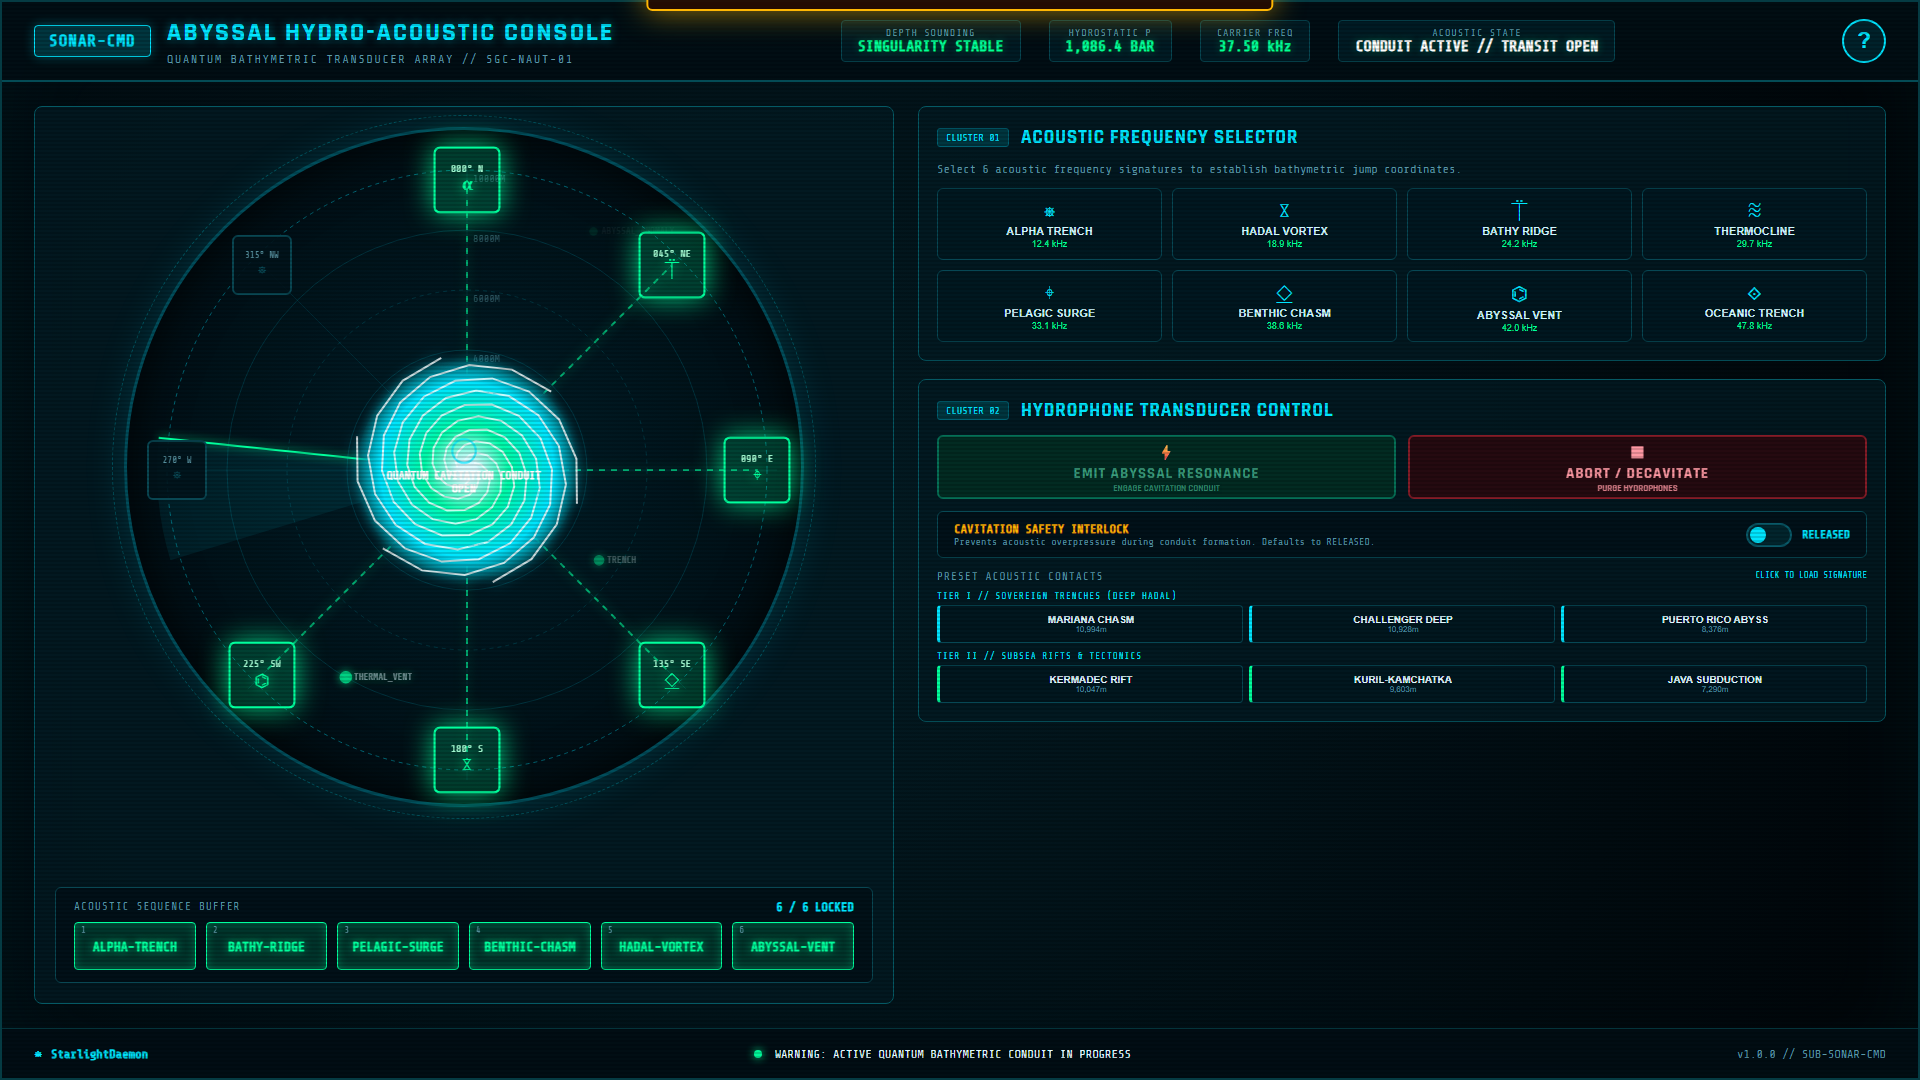
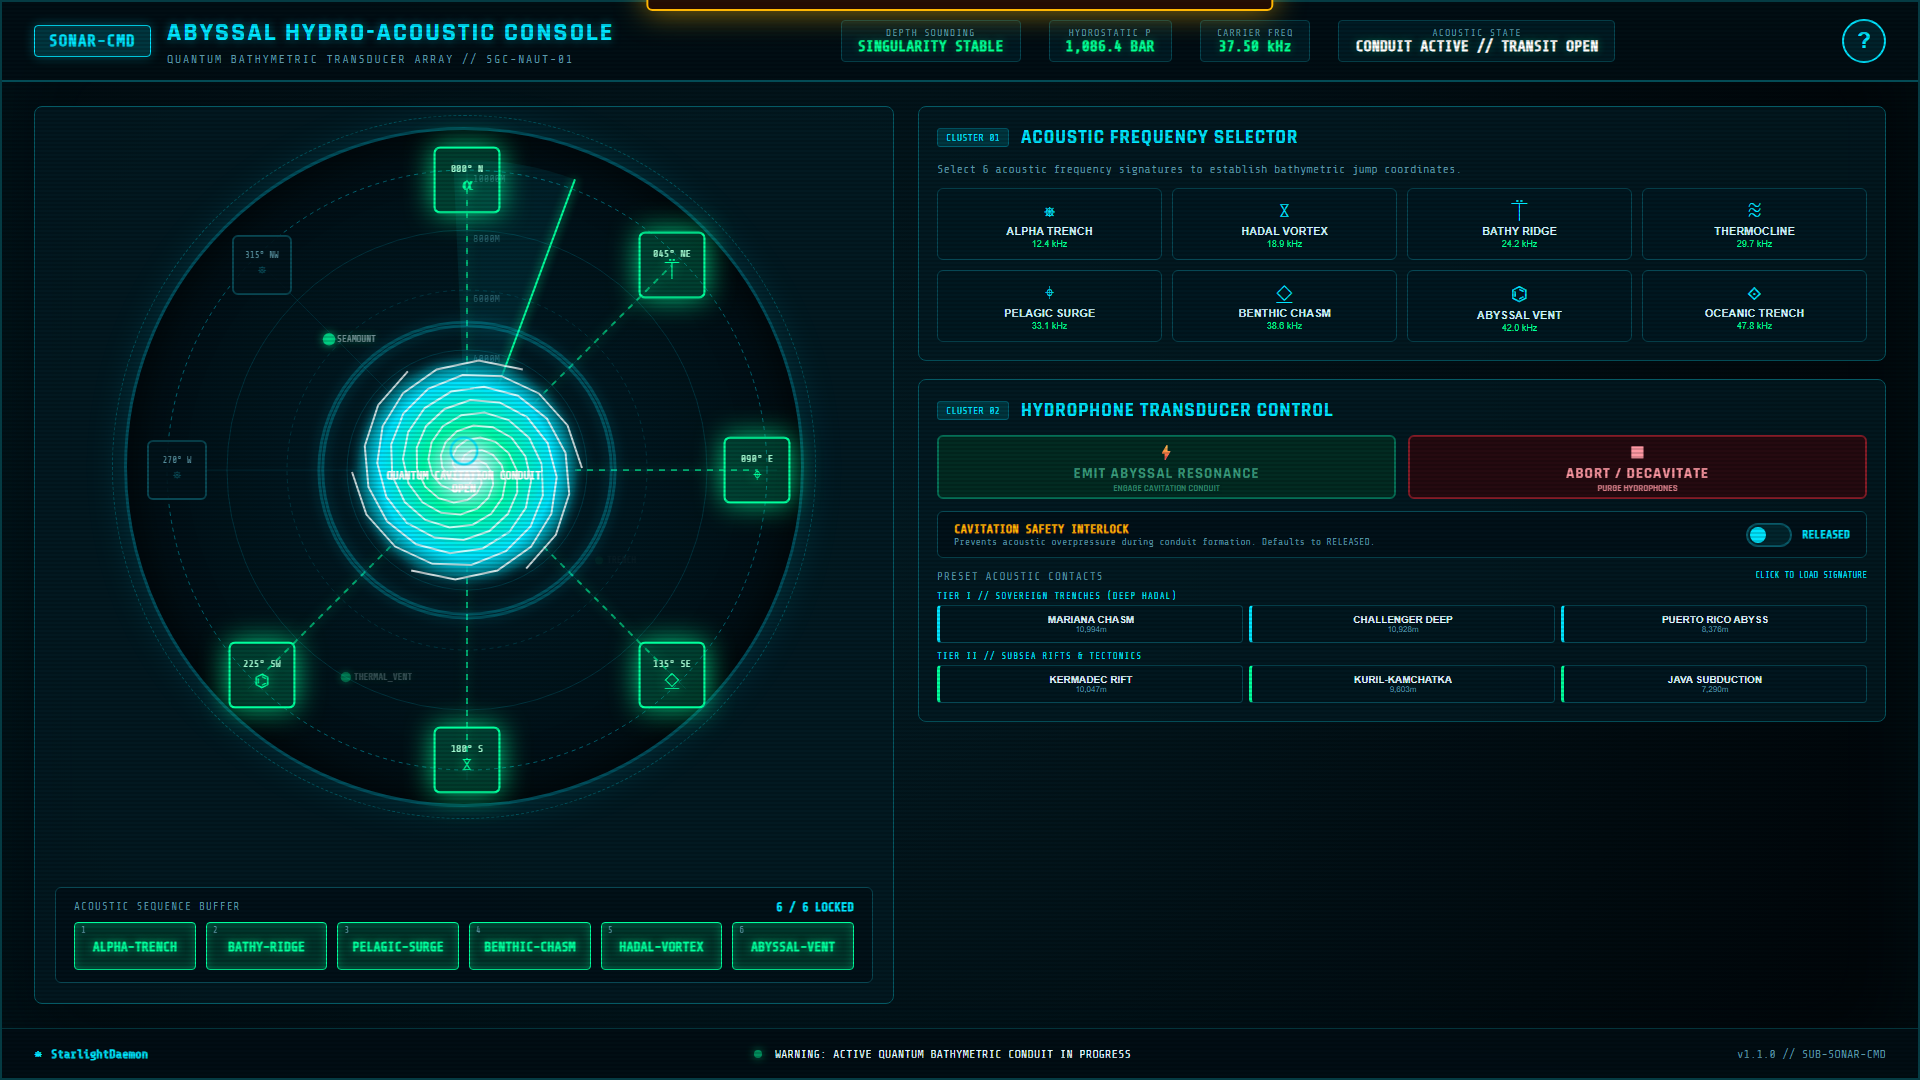
fix(stargate_sonar_abyssal): stage preset quick-dial through per-bearing phase locks (v1.1.0)
loadPreset previously locked all 6 bearing glyphs in one synchronous
forEach, jumping straight to PENDING_READY and skipping the per-bearing
sonar ping, lock chime, chevron animation, and DIALING telemetry manual
tuning uses. Presets now re-tune the charted bearing track through
lockGlyph (the manual lock path) at 300ms per bearing - beamformer
cadence. Replay lands in PENDING_READY without starting emission;
ABORT/DECAVITATE cancels an in-flight replay, and the cavitation
safety hold halts remaining steps with one interlock alert. Tests:
staged sampling with in-progress screenshots, mid-replay abort test,
re-timed preset check.

Changed region(s): [[0.0938, 0.2444, 0.3438, 0.5806], [0.2812, 0.1528, 0.3125, 0.2444], [0.1562, 0.6111, 0.2188, 0.6417]]

diff --git a/stargate_sonar_abyssal/test_build.js b/stargate_sonar_abyssal/test_build.js
@@ -257,7 +257,7 @@ async function runTests() {
     console.log('\n--- EXECUTING DIAL-ACTIVATE-DISENGAGE CYCLE 2 ---');
     // Load Preset "mariana"
     await hitAndClick('.preset-btn[data-preset="mariana"]');
-    await sleep(600);
+    await sleep(2400); // bearing-track replay: 6 bearings x 300ms beamformer cadence
 
     const stateAfterPreset = await cdp.eval(`(() => {
       const counter = document.getElementById('address-counter').textContent;
@@ -298,6 +298,67 @@ async function runTests() {
       return document.getElementById('address-counter').textContent;
     })()`);
     console.log(`[Cycle 2 - After Disengage]: ${stateAfterDisengage2}`);
+
+    // --- TEST STAGED BEARING-TRACK REPLAY (per-bearing locks, no instant jump) ---
+    console.log('\n--- TESTING STAGED PRESET REPLAY ---');
+    await hitAndClick('.preset-btn[data-preset="mariana"]');
+    // hitAndClick sleeps 250ms after the click; sample on an absolute clock
+    const clickT0 = Date.now() - 250;
+
+    const replaySamples = [];
+    for (const off of [480, 1050, 1650]) {
+      const rem = clickT0 + off - Date.now();
+      if (rem > 0) await sleep(rem);
+      const s = await cdp.eval(`(() => ({
+        locked: (document.getElementById('address-counter').textContent.match(/^(\\d+)/) || [0,0])[1],
+        teleState: document.getElementById('tele-state').textContent,
+        activateDisabled: document.getElementById('btn-activate').hasAttribute('disabled')
+      }))()`);
+      s.locked = parseInt(s.locked, 10);
+      replaySamples.push(s);
+      console.log(`  t=${Date.now() - clickT0}ms:`, JSON.stringify(s));
+      await cdp.screenshot(path.join(__dirname, `screenshot_replay_t${off}.png`));
+    }
+    const rCounts = replaySamples.map(s => s.locked);
+    const stagedOk = rCounts.every((v, i) => i === 0 || v > rCounts[i - 1]) &&
+      replaySamples.every(s => s.locked > 0 && s.locked < 6 && s.activateDisabled &&
+        !s.teleState.includes('CONDUIT ACTIVE'));
+    if (!stagedOk) {
+      throw new Error(`FAIL: Preset replay is not visibly staged: ${JSON.stringify(replaySamples)}`);
+    }
+
+    // Completion +1.2s: PENDING, activate enabled, NOT active
+    const toEnd = clickT0 + 1800 + 1200 - Date.now();
+    if (toEnd > 0) await sleep(toEnd);
+    const replayEnd = await cdp.eval(`(() => ({
+      counter: document.getElementById('address-counter').textContent,
+      teleState: document.getElementById('tele-state').textContent,
+      activateDisabled: document.getElementById('btn-activate').hasAttribute('disabled')
+    }))()`);
+    console.log('[Replay End]:', JSON.stringify(replayEnd));
+    if (!replayEnd.counter.includes('6 / 6') || replayEnd.activateDisabled ||
+        replayEnd.teleState.includes('CONDUIT ACTIVE')) {
+      throw new Error('FAIL: Replay did not land in PENDING_READY without auto-fire.');
+    }
+    console.log('>>> STAGED REPLAY CONFIRMED: per-bearing locks, PENDING at end, no auto-fire.');
+
+    // --- TEST DISENGAGE DURING REPLAY ---
+    console.log('\n--- TESTING ABORT DURING PRESET REPLAY ---');
+    await hitAndClick('#btn-disengage');
+    await sleep(200);
+    await hitAndClick('.preset-btn[data-preset="mariana"]');
+    await sleep(550); // ~2 bearings locked (250ms already slept in hitAndClick)
+    const midAbortState = await cdp.eval(`document.getElementById('address-counter').textContent`);
+    console.log(`[Mid-replay before abort]: ${midAbortState}`);
+    await hitAndClick('#btn-disengage');
+    await sleep(1900); // past when remaining beam steps would have fired
+    const afterAbortState = await cdp.eval(`document.getElementById('address-counter').textContent`);
+    console.log(`[After mid-replay abort +1.9s]: ${afterAbortState}`);
+    if (!afterAbortState.includes('0 / 6')) {
+      throw new Error('FAIL: Abort during replay left orphaned beam timers still locking bearings.');
+    }
+    await cdp.screenshot(path.join(__dirname, 'screenshot_mid_replay_abort.png'));
+    console.log('>>> MID-REPLAY ABORT CONFIRMED: no orphaned locks after disengage.');
 
     // --- TEST SAFETY HOLD INTERLOCK ---
     console.log('\n--- TESTING CAVITATION SAFETY HOLD INTERLOCK ---');

diff --git a/stargate_sonar_abyssal/app.js b/stargate_sonar_abyssal/app.js
@@ -489,6 +489,7 @@
 
   // --- DISENGAGE / ABORT TRIGGER (Real cycle tested) ---
   function disengageConduit() {
+    cancelPresetReplay(); // abort any in-flight bearing-track replay
     SoundFX.disengageWhoosh();
 
     state.mode = 'IDLE';
@@ -516,6 +517,19 @@
   }
 
   // --- PRESET QUICK-DIAL LOADER ---
+  // CHARTED BEARING-TRACK REPLAY: presets re-tune a surveyed acoustic track
+  // from the expedition chart — the array steps each hydrophone bearing at
+  // beamformer cadence, far faster than manual tuning, but every bearing
+  // still passes through the same lockGlyph phase lock (sonar ping, lock
+  // chime, transducer chevron, telemetry) as a manually dialed glyph. The
+  // 6th lock lands in PENDING_READY; emission NEVER starts on its own.
+  let presetReplayTimers = [];
+
+  function cancelPresetReplay() {
+    presetReplayTimers.forEach(t => clearTimeout(t));
+    presetReplayTimers = [];
+  }
+
   function loadPreset(presetKey) {
     if (state.safetyHoldEngaged) {
       triggerInterlockAlert();
@@ -524,12 +538,21 @@
     const preset = PRESETS[presetKey];
     if (!preset) return;
 
-    disengageConduit();
+    disengageConduit(); // also cancels any in-flight replay
 
-    preset.glyphs.forEach(glyphName => {
-      const btn = document.querySelector(`.glyph-btn[data-glyph="${glyphName}"]`);
-      const sym = btn ? btn.dataset.symbol : '⎈';
-      lockGlyph(glyphName, sym);
+    const BEAM_STEP_MS = 300; // beamformer cadence: faster than manual tuning, one bearing at a time
+    preset.glyphs.forEach((glyphName, i) => {
+      const timer = setTimeout(() => {
+        if (state.safetyHoldEngaged) {
+          cancelPresetReplay();
+          triggerInterlockAlert();
+          return;
+        }
+        const btn = document.querySelector(`.glyph-btn[data-glyph="${glyphName}"]`);
+        const sym = btn ? btn.dataset.symbol : '⎈';
+        lockGlyph(glyphName, sym);
+      }, BEAM_STEP_MS * (i + 1));
+      presetReplayTimers.push(timer);
     });
   }
 

diff --git a/stargate_sonar_abyssal/index.html b/stargate_sonar_abyssal/index.html
@@ -284,7 +284,7 @@
         <span id="footer-status-text">HYDROPHONE ARRAY ONLINE // SENSORS NOMINAL</span>
       </div>
       <div class="footer-right">
-        <span class="version-tag">v1.0.0 // SUB-SONAR-CMD</span>
+        <span class="version-tag">v1.1.0 // SUB-SONAR-CMD</span>
       </div>
     </footer>
   </div>

diff --git a/stargate_sonar_abyssal/CHANGELOG.md b/stargate_sonar_abyssal/CHANGELOG.md
@@ -5,6 +5,19 @@ All notable changes to this project will be documented in this file.
 The format is based on [Keep a Changelog](https://keepachangelog.com/en/1.0.0/),
 and this project adheres to [Semantic Versioning](https://semver.org/spec/v2.0.0.html).
 
+## [1.1.0] - 2026-08-15
+
+**Built by:** Claude Opus (auto-dial staging fix; original build by Gemini 3.6 Flash (high reasoning))
+
+### Fixed
+- **Preset Quick-Dial Instant-Jump Bug**: loading a charted preset previously locked all 6 bearing glyphs in one synchronous forEach, jumping straight to `PENDING_READY` and bypassing the per-bearing sonar ping, lock chime, transducer chevron animation, and `DIALING` telemetry progression that manual tuning uses.
+- **Charted Bearing-Track Replay**: presets now re-tune each hydrophone bearing through the exact same `lockGlyph` phase lock as manual dialing, one bearing every 300ms — in-universe, the array steps a surveyed acoustic track at beamformer cadence: far faster than manual tuning, but every bearing still requires its own phase lock.
+- Replay lands in the identical `PENDING_READY` state as manual dialing and **never starts emission on its own** (asserted at completion +1.2s).
+- `DISENGAGE / ABORT` remains fully functional **during** a replay: aborting mid-sequence cancels all pending beam timers and resets cleanly (new automated test). Engaging the Cavitation Safety Hold mid-replay halts the remaining beam steps with a single interlock alert.
+
+### Changed
+- Verification suite: staged-replay sampling with in-progress screenshots, mid-replay abort test; preset assertion re-timed for the ~1.8s replay.
+
 ## [1.0.1] - 2026-08-13
 
 ### Operator Evaluation & Status Note
